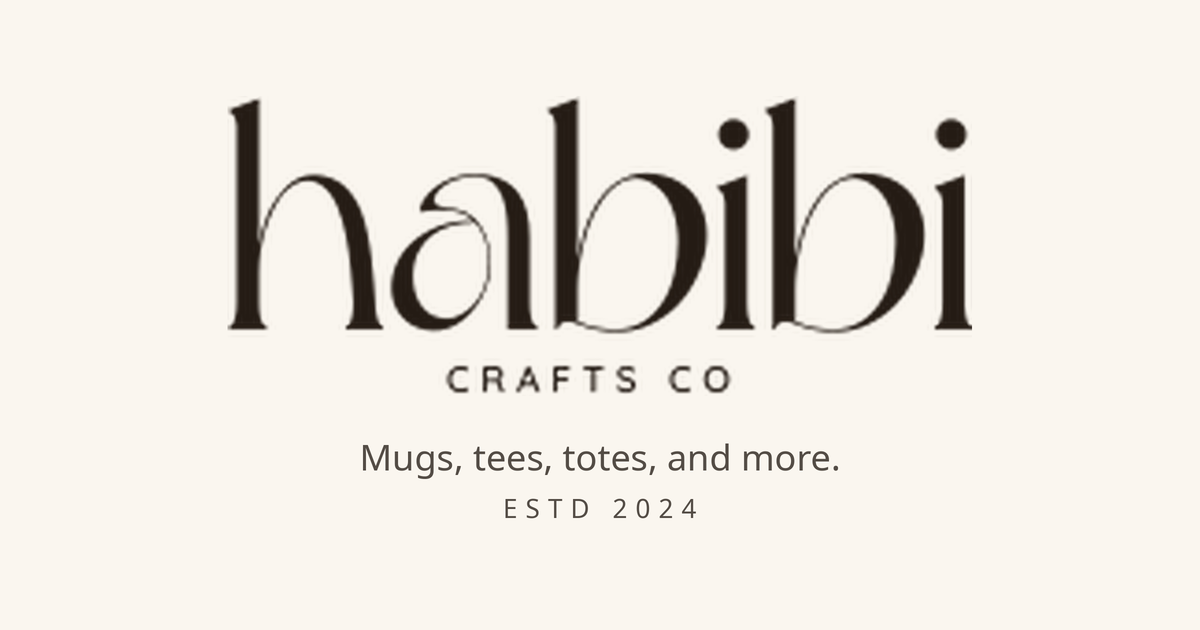
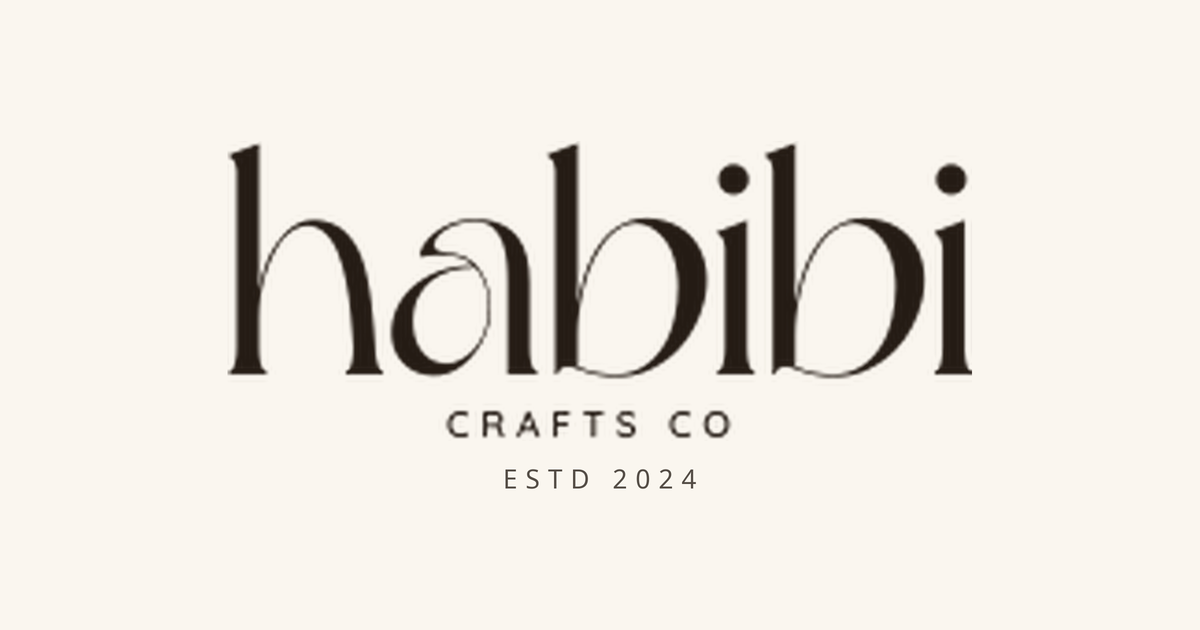
fix(share): drop the tagline from the share image
The wordmark and ESTD 2024 stay, drawn at 2x and centered as a pair. The tagline is removed from this image only.

diff --git a/scripts/generate-seo-assets.py b/scripts/generate-seo-assets.py
@@ -102,7 +102,7 @@ def draw_tracked(draw: ImageDraw.ImageDraw, text: str, y: int, font, fill, track
 
 
 def write_og_share(logo: Image.Image, dest: Path) -> None:
-    """Cream card, one large wordmark, one tagline, and a small ESTD 2024 line.
+    """Cream card with the wordmark and a small ESTD 2024 line, optically centered.
 
     The wordmark is drawn on a 2x canvas and downsampled so the edges stay sharp.
     """
@@ -113,24 +113,16 @@ def write_og_share(logo: Image.Image, dest: Path) -> None:
     mark = charcoal_wordmark(Image.open(ASSETS / "logo-nav-white.png"))
     fitted = ImageOps.contain(mark, (920 * scale, 300 * scale), Image.Resampling.LANCZOS)
     draw = ImageDraw.Draw(canvas)
-    sans = ImageFont.truetype(SANS, 36 * scale)
     date_font = ImageFont.truetype(SANS, 26 * scale)
-    line = "Mugs, tees, totes, and more."
     established = "ESTD 2024"
-
-    def text_width(text, font):
-        box = draw.textbbox((0, 0), text, font=font)
-        return box[2] - box[0]
-
-    gap = 36 * scale
-    line_h = 48 * scale
-    date_h = 36 * scale
-    block_h = fitted.height + gap + line_h + 18 * scale + date_h
+    date_box = draw.textbbox((0, 0), established, font=date_font)
+    date_h = date_box[3] - date_box[1]
+    # Close the gap the tagline used to occupy, then center the pair.
+    gap = 28 * scale
+    block_h = fitted.height + gap + date_h
     top = (h - block_h) // 2
     canvas.alpha_composite(fitted, ((w - fitted.width) // 2, top))
-    y = top + fitted.height + gap
-    draw.text(((w - text_width(line, sans)) // 2, y), line, font=sans, fill=MUTED)
-    draw_tracked(draw, established, y + line_h + 10 * scale, date_font, MUTED, 8 * scale, w)
+    draw_tracked(draw, established, top + fitted.height + gap - date_box[1], date_font, MUTED, 8 * scale, w)
     final = canvas.resize((1200, 630), Image.Resampling.LANCZOS)
     final.convert("RGB").save(dest, "PNG", optimize=True)
 
